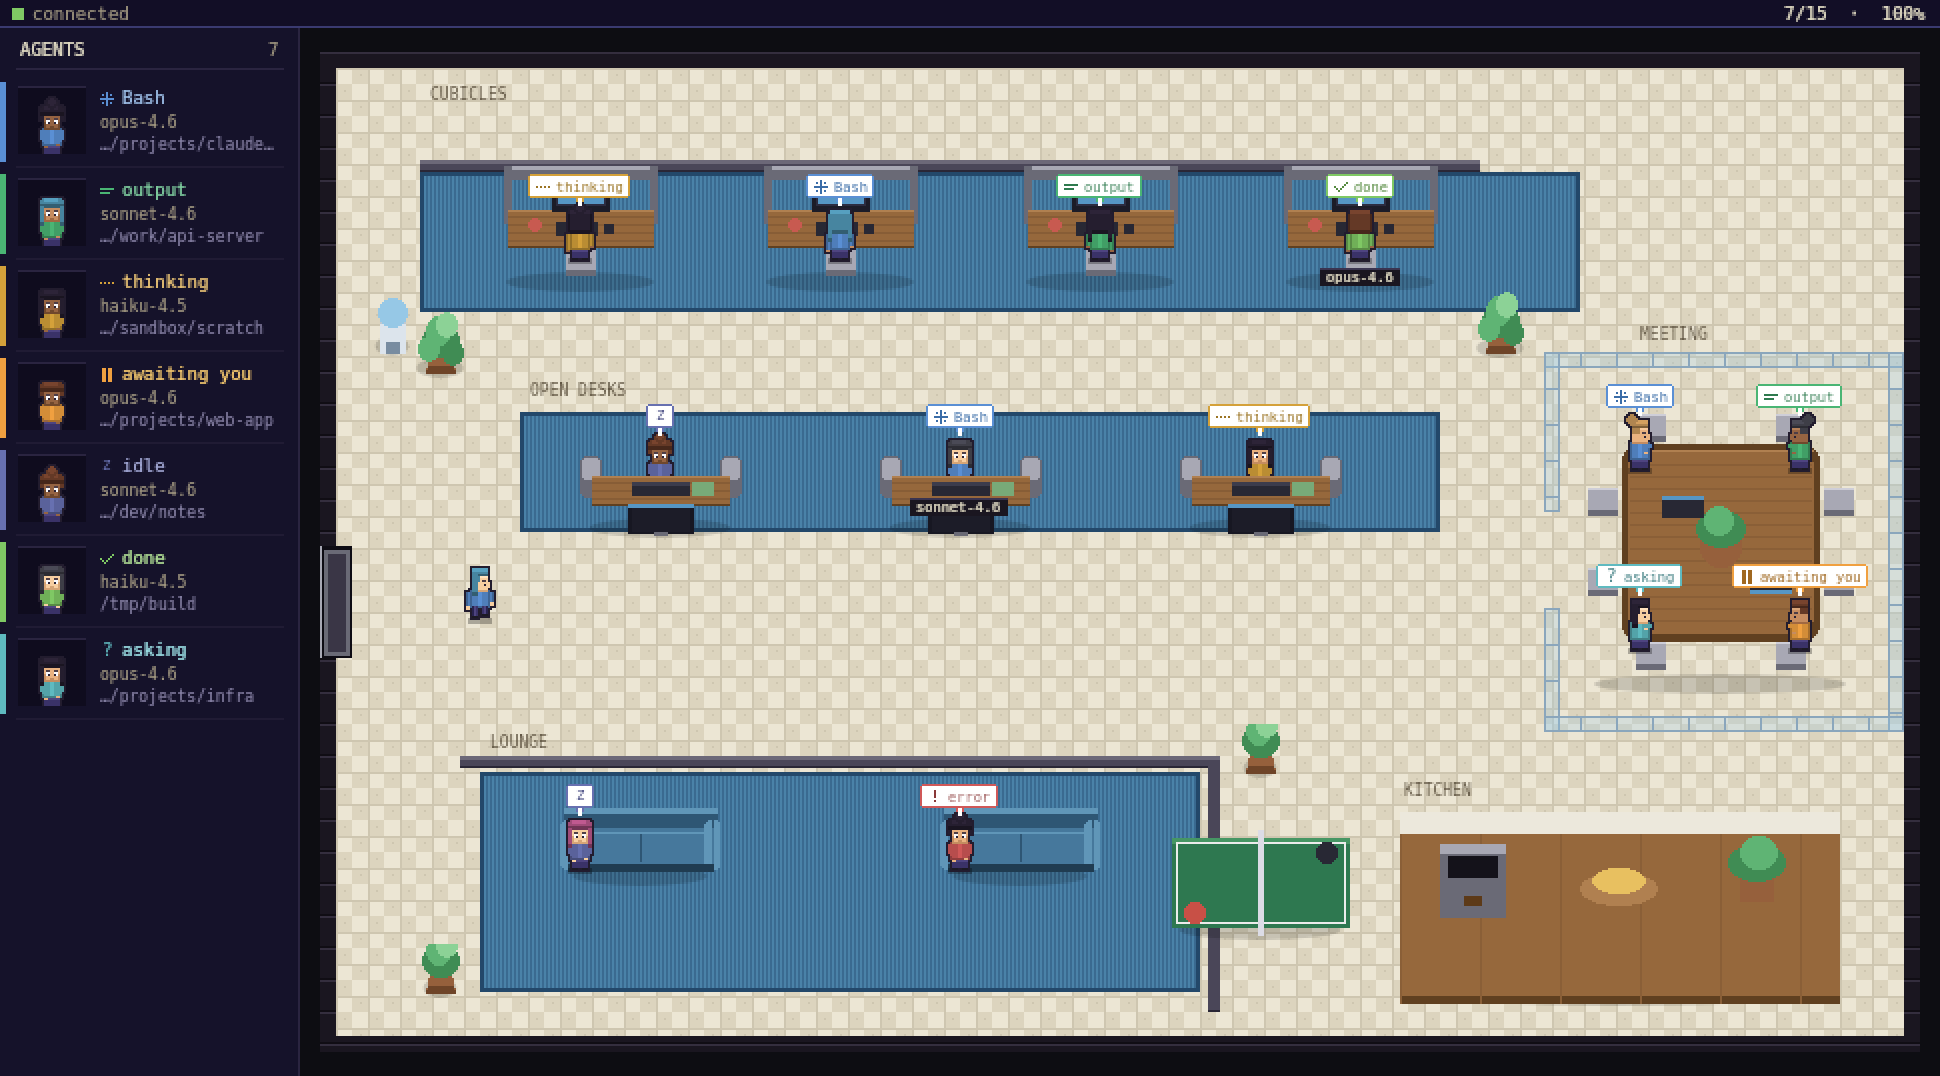
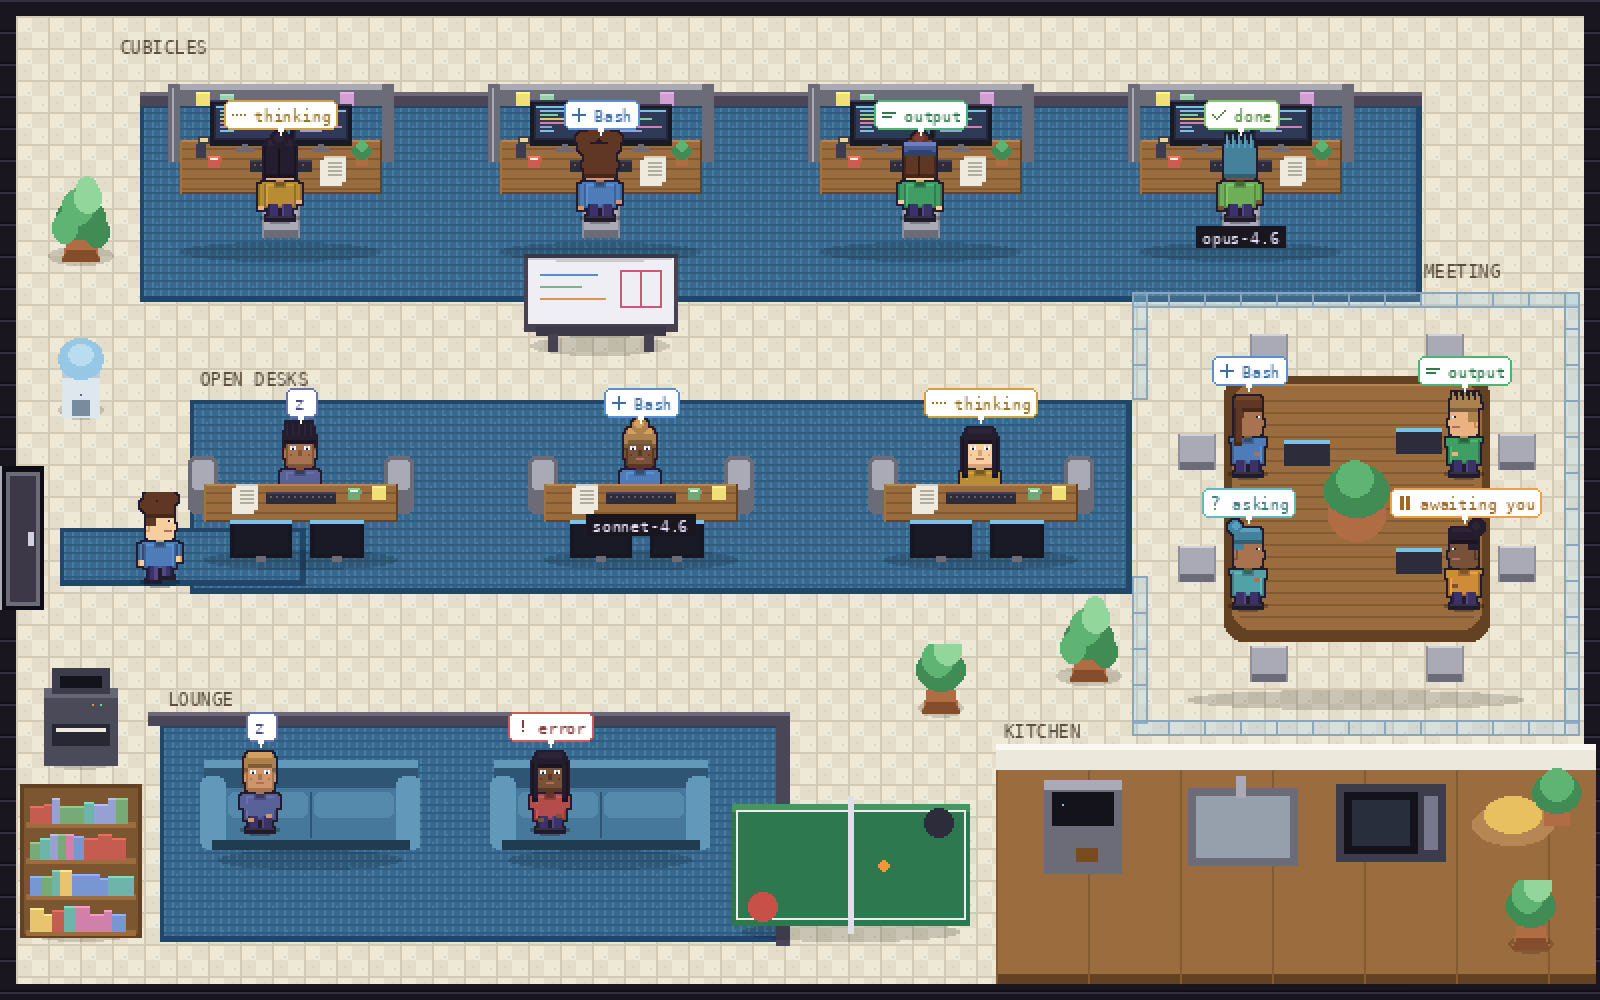
Refresh README and screenshots for the post-sprite-overhaul features
The README hadn't been updated since the original commit, so it missed
several major features that landed after it:

- Embedded xterm.js terminal panel for HQ-spawned PTYs, including the
  + button spawn dialog with a recent-cwds picker and per-row >_ chips
- Resizable, persistent-width sidebar
- Bundled .app install path with first-run hook setup (no install.sh
  needed); npm install / npm run build flow added to Requirements
- New office furniture (whiteboard, bookshelf, printer, ping-pong) and
  the 48px sprite refresh (5 hairstyles, 5 skin tones, 9 hair colors,
  cap accessory)
- CLAUDE_HQ_OWNER correlation between HQ-spawned PTYs and hook events
- terminal.js, src/vendor/, src-tauri/src/pty.rs added to the project
  layout

Also regenerate docs/hero.png from gen_scene.py so the cover image
matches the current art, and regenerate docs/characters.png as a strip
of layered-sprite variations covering the new hairstyles and cap.

diff --git a/README.md b/README.md
@@ -6,7 +6,7 @@ running a tool, typing output, waiting on you — so you can see the state of al
 glance.
 
 <p align="center">
-  <img src="docs/hero.png" alt="Claude HQ — agent roster sidebar on the left, animated pixel office on the right" width="960">
+  <img src="docs/hero.png" alt="Claude HQ pixel office — cubicles, open desks, a glass-walled meeting room, lounge, and kitchen, with status chips above each agent" width="960">
 </p>
 
 ## What it does
@@ -18,12 +18,20 @@ events; the daemon feeds a pixel office where each session is a little character
   shows an icon + label — `thinking`, `tool` (with the tool name, e.g. `Bash`), `output`, `done`,
   `error`, `awaiting you`, `asking`, `compacting`. Blocked agents (permission / asking) pulse so
   you can spot them fast.
-- **An agent roster.** A sidebar lists every active agent with an animated portrait, its status,
-  the model in use, and the **working directory** it's running in — so you always know who's where.
+- **An agent roster.** A resizable sidebar lists every active agent with an animated portrait,
+  its status, the model in use, and the **working directory** it's running in — so you always know
+  who's where. Drag the right edge to resize; the width is remembered between runs.
+- **Spawn agents from HQ.** Hit the `+` button in the sidebar to launch a new `claude` session in
+  a working directory of your choice (with a recent-cwds picker). The session runs in a real PTY
+  owned by the daemon and renders in an embedded **xterm.js terminal panel** docked over the
+  office. Each agent's row gets a `>_` chip that toggles its terminal — minimize keeps it running,
+  close kills it. The terminal panel itself is draggable and resizable, and its geometry persists.
 - **A real office.** A glass-walled meeting room, cubicles, open-desk pods, a lounge, and a
-  kitchen. Sub-agents (from `Task`) get their own characters.
-- **Distinct people.** Characters are composed from layered sprites (skin tone, hairstyle,
-  glasses/headphones) keyed off the session id, so each agent looks like its own person.
+  kitchen — plus a whiteboard, a bookshelf, a printer, and a ping-pong table. Sub-agents (from
+  `Task`) get their own characters.
+- **Distinct people.** Characters are 48px layered sprites — 5 skin tones, 5 hairstyles (short,
+  long, bun, curly, spiky), 9 hair colors, and a glasses/headphones/cap accessory — keyed off the
+  session id, so each agent looks like its own person.
 
 <p align="center">
   <img src="docs/roster.png" alt="Agent roster sidebar" height="360">
@@ -42,36 +50,47 @@ Claude Code  ──hook──▶  ~/.claude-hq/hooks/claude_hq_hook.py
 
 The daemon (a [Tauri](https://tauri.app) app) exposes a tiny HTTP endpoint and a WebSocket. Any
 producer that can `POST /event` shows up in the office — by default that's a Claude Code **hook**,
-but a passive transcript tailer and a legacy PTY shim are also included.
+but a passive transcript tailer and a legacy PTY shim are also included. HQ-spawned sessions
+(launched from the sidebar's `+`) run in a daemon-owned PTY and tag the child with
+`CLAUDE_HQ_OWNER=<session-id>` so the hook's events line up with the on-screen agent.
 
 ## Requirements
 
 - **macOS** (menu-bar tray + always-on-top window are tuned for macOS; Linux likely works too)
 - **Rust** toolchain — install from <https://rustup.rs>
+- **Node.js** + npm — pulls in the Tauri CLI (only needed when bundling the `.app`)
 - **python3** — used by the hook bridge / tailer (preinstalled on macOS)
 - **Claude Code** (the `claude` CLI)
 
 ## Install
 
+You have two options.
+
+**1. Build a `.app` bundle (recommended for end users).** A first-run setup wires the Claude Code
+hook automatically the first time you open the app — no installer script needed.
+
 ```bash
 git clone [email redacted]:desmondchoon/claude-hq.git
 cd claude-hq
-./install.sh           # release build; add --debug for a faster, unoptimized build
+npm install
+npm run build          # produces a "Claude HQ.app" (and DMG) under src-tauri/target/release/bundle
 ```
 
-`install.sh` builds the binaries into `~/.claude-hq/bin`, then installs the **Claude Code hooks**
-(the default integration). This writes a small hook into `~/.claude/settings.json` (your existing
-hooks are preserved and backed up) and a helper script under `~/.claude-hq/hooks/`. **No PATH
-change or shell reload is needed.**
+Drag the `.app` to `/Applications`, open it once, and you're done. Re-opens are no-ops; the
+setup is guarded by `~/.claude-hq/.installed`.
 
-Then:
+**2. Script install (no bundling).** Builds the binaries to `~/.claude-hq/bin` and installs the
+Claude Code hooks directly.
 
 ```bash
-~/.claude-hq/bin/claude-hq      # start the daemon (menu bar + window)
+./install.sh           # release build; add --debug for a faster, unoptimized build
+~/.claude-hq/bin/claude-hq    # start the daemon (menu bar + window)
 ```
 
-Now run Claude Code as you normally would — from a terminal or an editor that uses it — and the
-session appears in the office automatically.
+Either way, the installer writes a small hook into `~/.claude/settings.json` (your existing hooks
+are preserved and backed up) and a helper script under `~/.claude-hq/hooks/`. **No PATH change or
+shell reload is needed.** Now run Claude Code as you normally would — from a terminal, an editor
+that uses it, or HQ's own `+` button — and the session appears in the office automatically.
 
 > **Development:** use `./start.sh` instead. It does an incremental build, (re)installs the hooks,
 > and runs the daemon in the foreground (Ctrl-C to quit). Open `src/preview.html` in a browser to
@@ -96,9 +115,13 @@ is for idling.
 
 ## Ingestion options
 
-By default, sessions are captured via **Claude Code hooks** — accurate, real-time, and works no
-matter how `claude` is launched. Two alternatives are bundled:
+Sessions can show up in HQ four ways. Most users just need the first one:
 
+- **Claude Code hooks** (default): accurate, real-time, works no matter how `claude` is launched.
+  Installed automatically — see *Install* above.
+- **Spawn from HQ** (the `+` button): HQ launches `claude` itself in a PTY it owns and shows the
+  live session in an embedded terminal panel. Combined with the hook, you get both the activity
+  state in the office and a real interactive terminal docked in the same window.
 - **Transcript tailer** (passive, zero-config): watches `~/.claude/projects/**/*.jsonl` and reports
   activity for every session, including model and working directory.
   ```bash
@@ -117,16 +140,19 @@ matter how `claude` is launched. Two alternatives are bundled:
 ```
 claude-hq/
 ├── src/                      Front-end (loaded by the Tauri webview)
-│   ├── index.html
-│   ├── renderer.js           Office + roster rendering, agent state machine
+│   ├── index.html            Canvas + spawn dialog + terminal panel chrome
+│   ├── renderer.js           Office + roster rendering, agent state machine, spawn dialog
 │   ├── sprites.js            Asset loader, layered character compositing, tinting
-│   ├── socket.js             WebSocket client
+│   ├── socket.js             WebSocket client (subscribes to daemon events)
+│   ├── terminal.js           Embedded xterm.js terminal for HQ-spawned PTYs
 │   ├── preview.html          Standalone browser demo (synthetic agents)
+│   ├── vendor/               Bundled xterm.js + fit addon + css
 │   └── assets/               Generated pixel art (characters + office tiles)
 ├── src-tauri/                Rust daemon
-│   ├── src/main.rs           App, tray, install subcommands
+│   ├── src/main.rs           App, tray, first-run setup, install subcommands
 │   ├── src/ws.rs             HTTP /event + WebSocket broadcast
 │   ├── src/parser.rs         Activity event model
+│   ├── src/pty.rs            HQ-spawned PTY sessions (pty_spawn/write/resize/kill)
 │   ├── src/install.rs        Hooks installer (default) + legacy shim installer
 │   └── src/bin/shim.rs       Legacy PTY shim
 ├── hooks/                    Hook bridge (claude_hq_hook.py) + installer + settings snippet
@@ -152,6 +178,8 @@ python3 tools/gen_scene.py    # a static office preview (tools/_preview/)
 ```bash
 ./uninstall.sh        # removes the hooks from settings.json and deletes ~/.claude-hq
 ```
+
+If you installed the `.app` bundle, also drag `Claude HQ.app` to the Trash.
 
 ## License
 